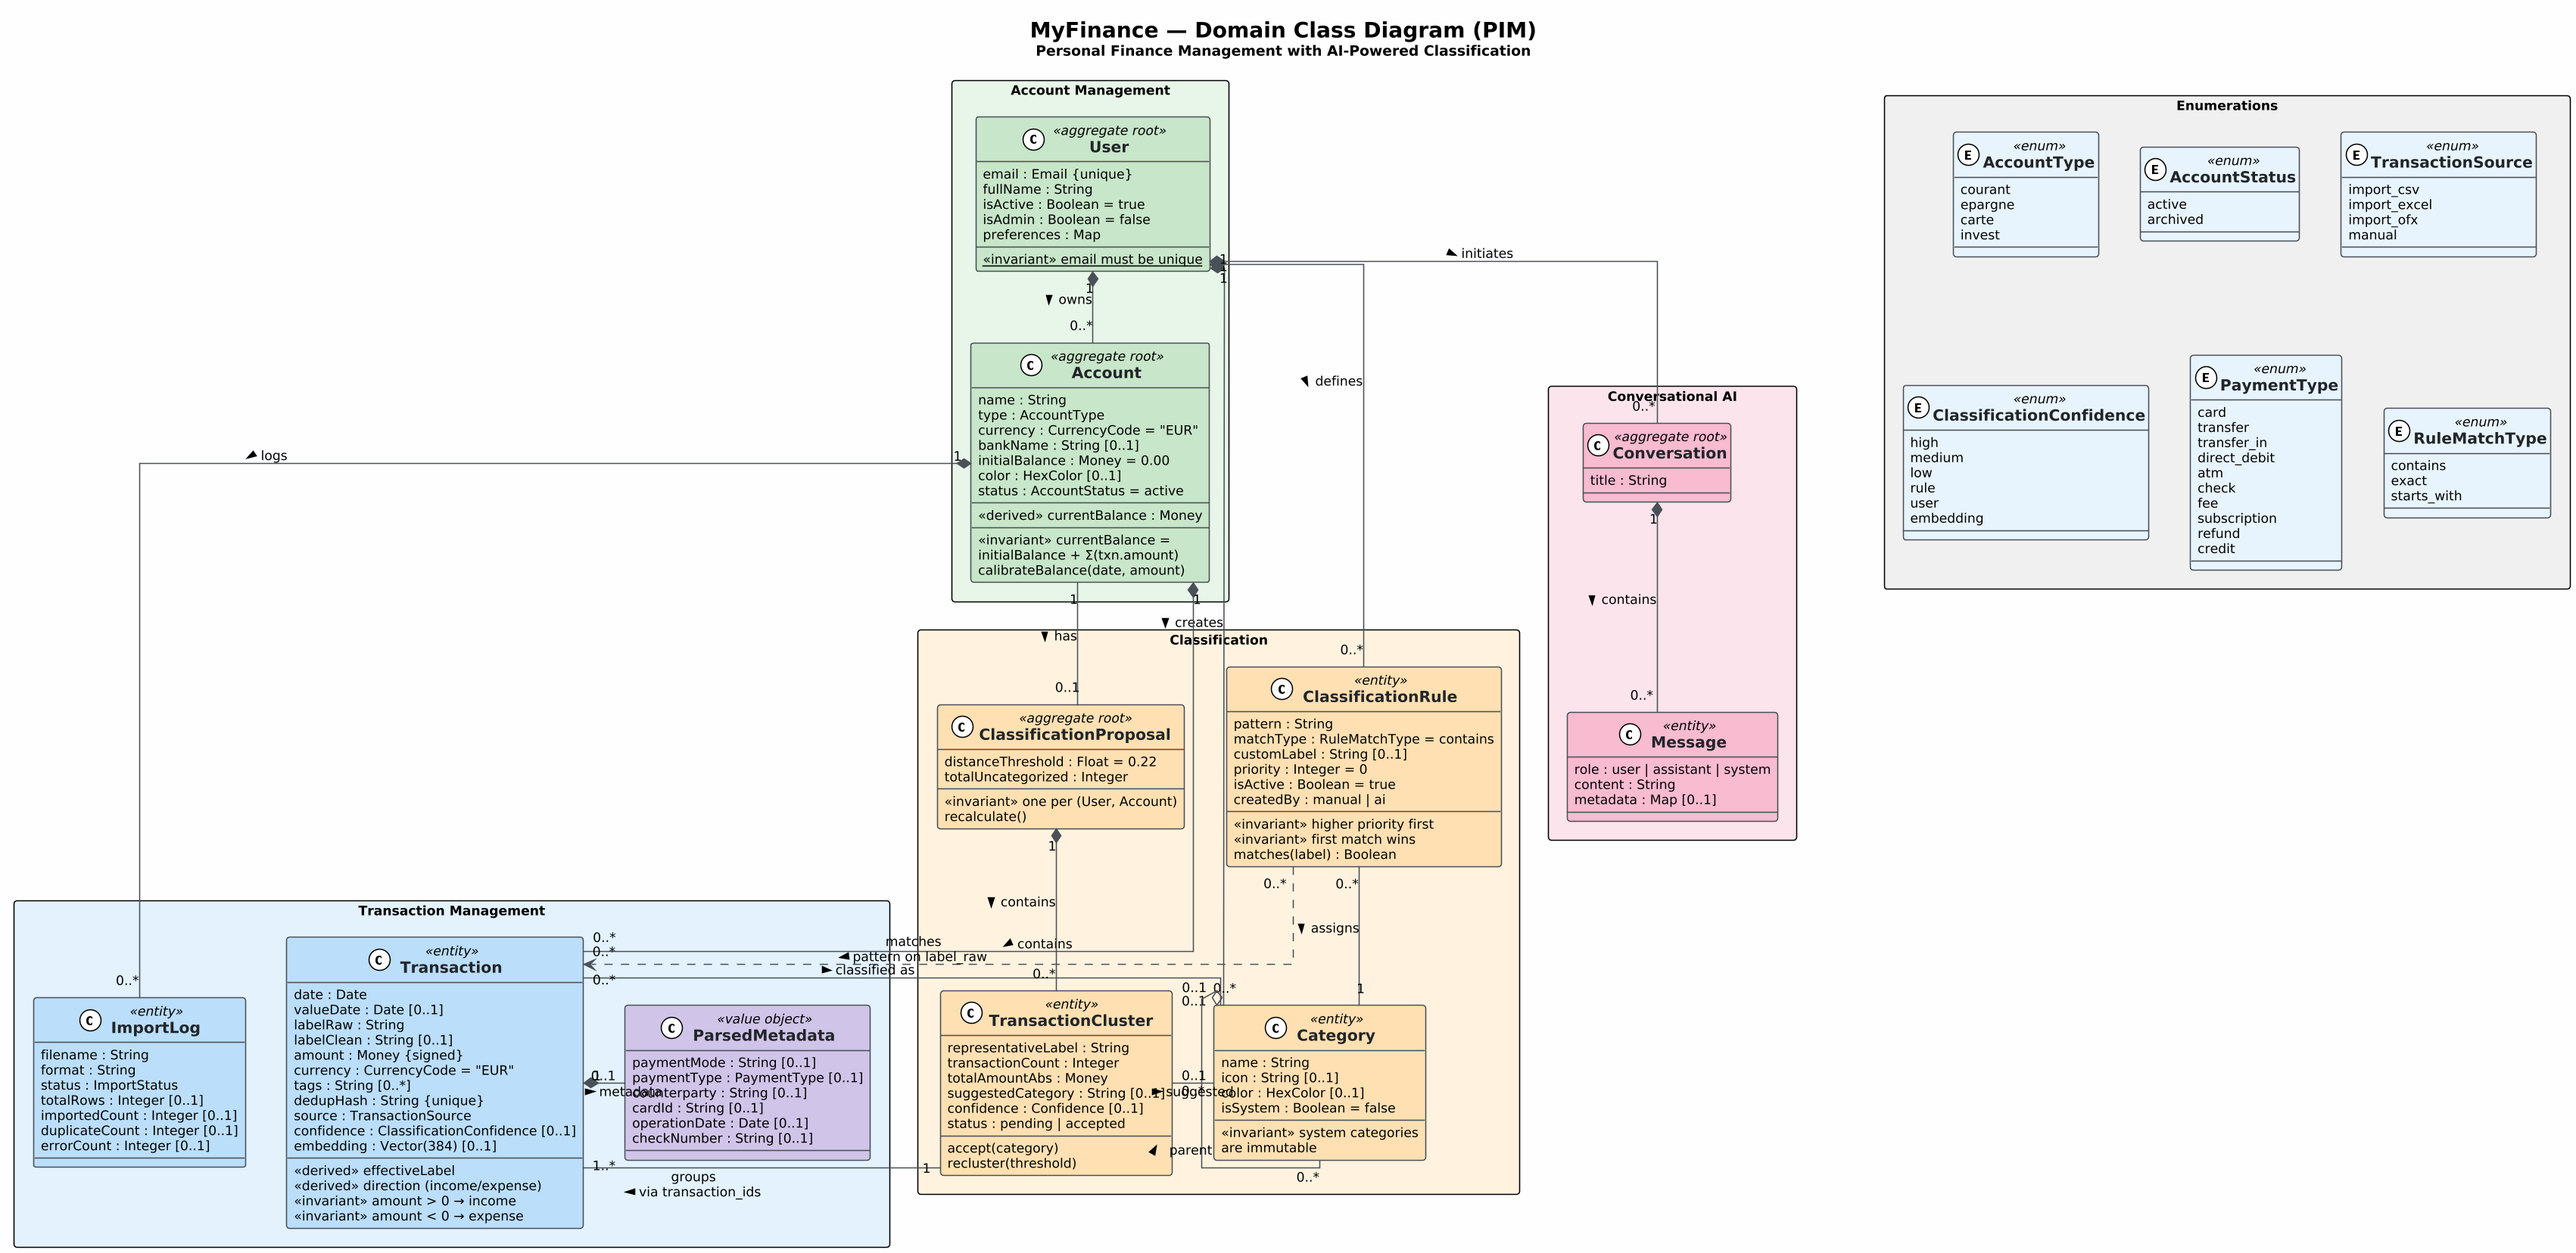
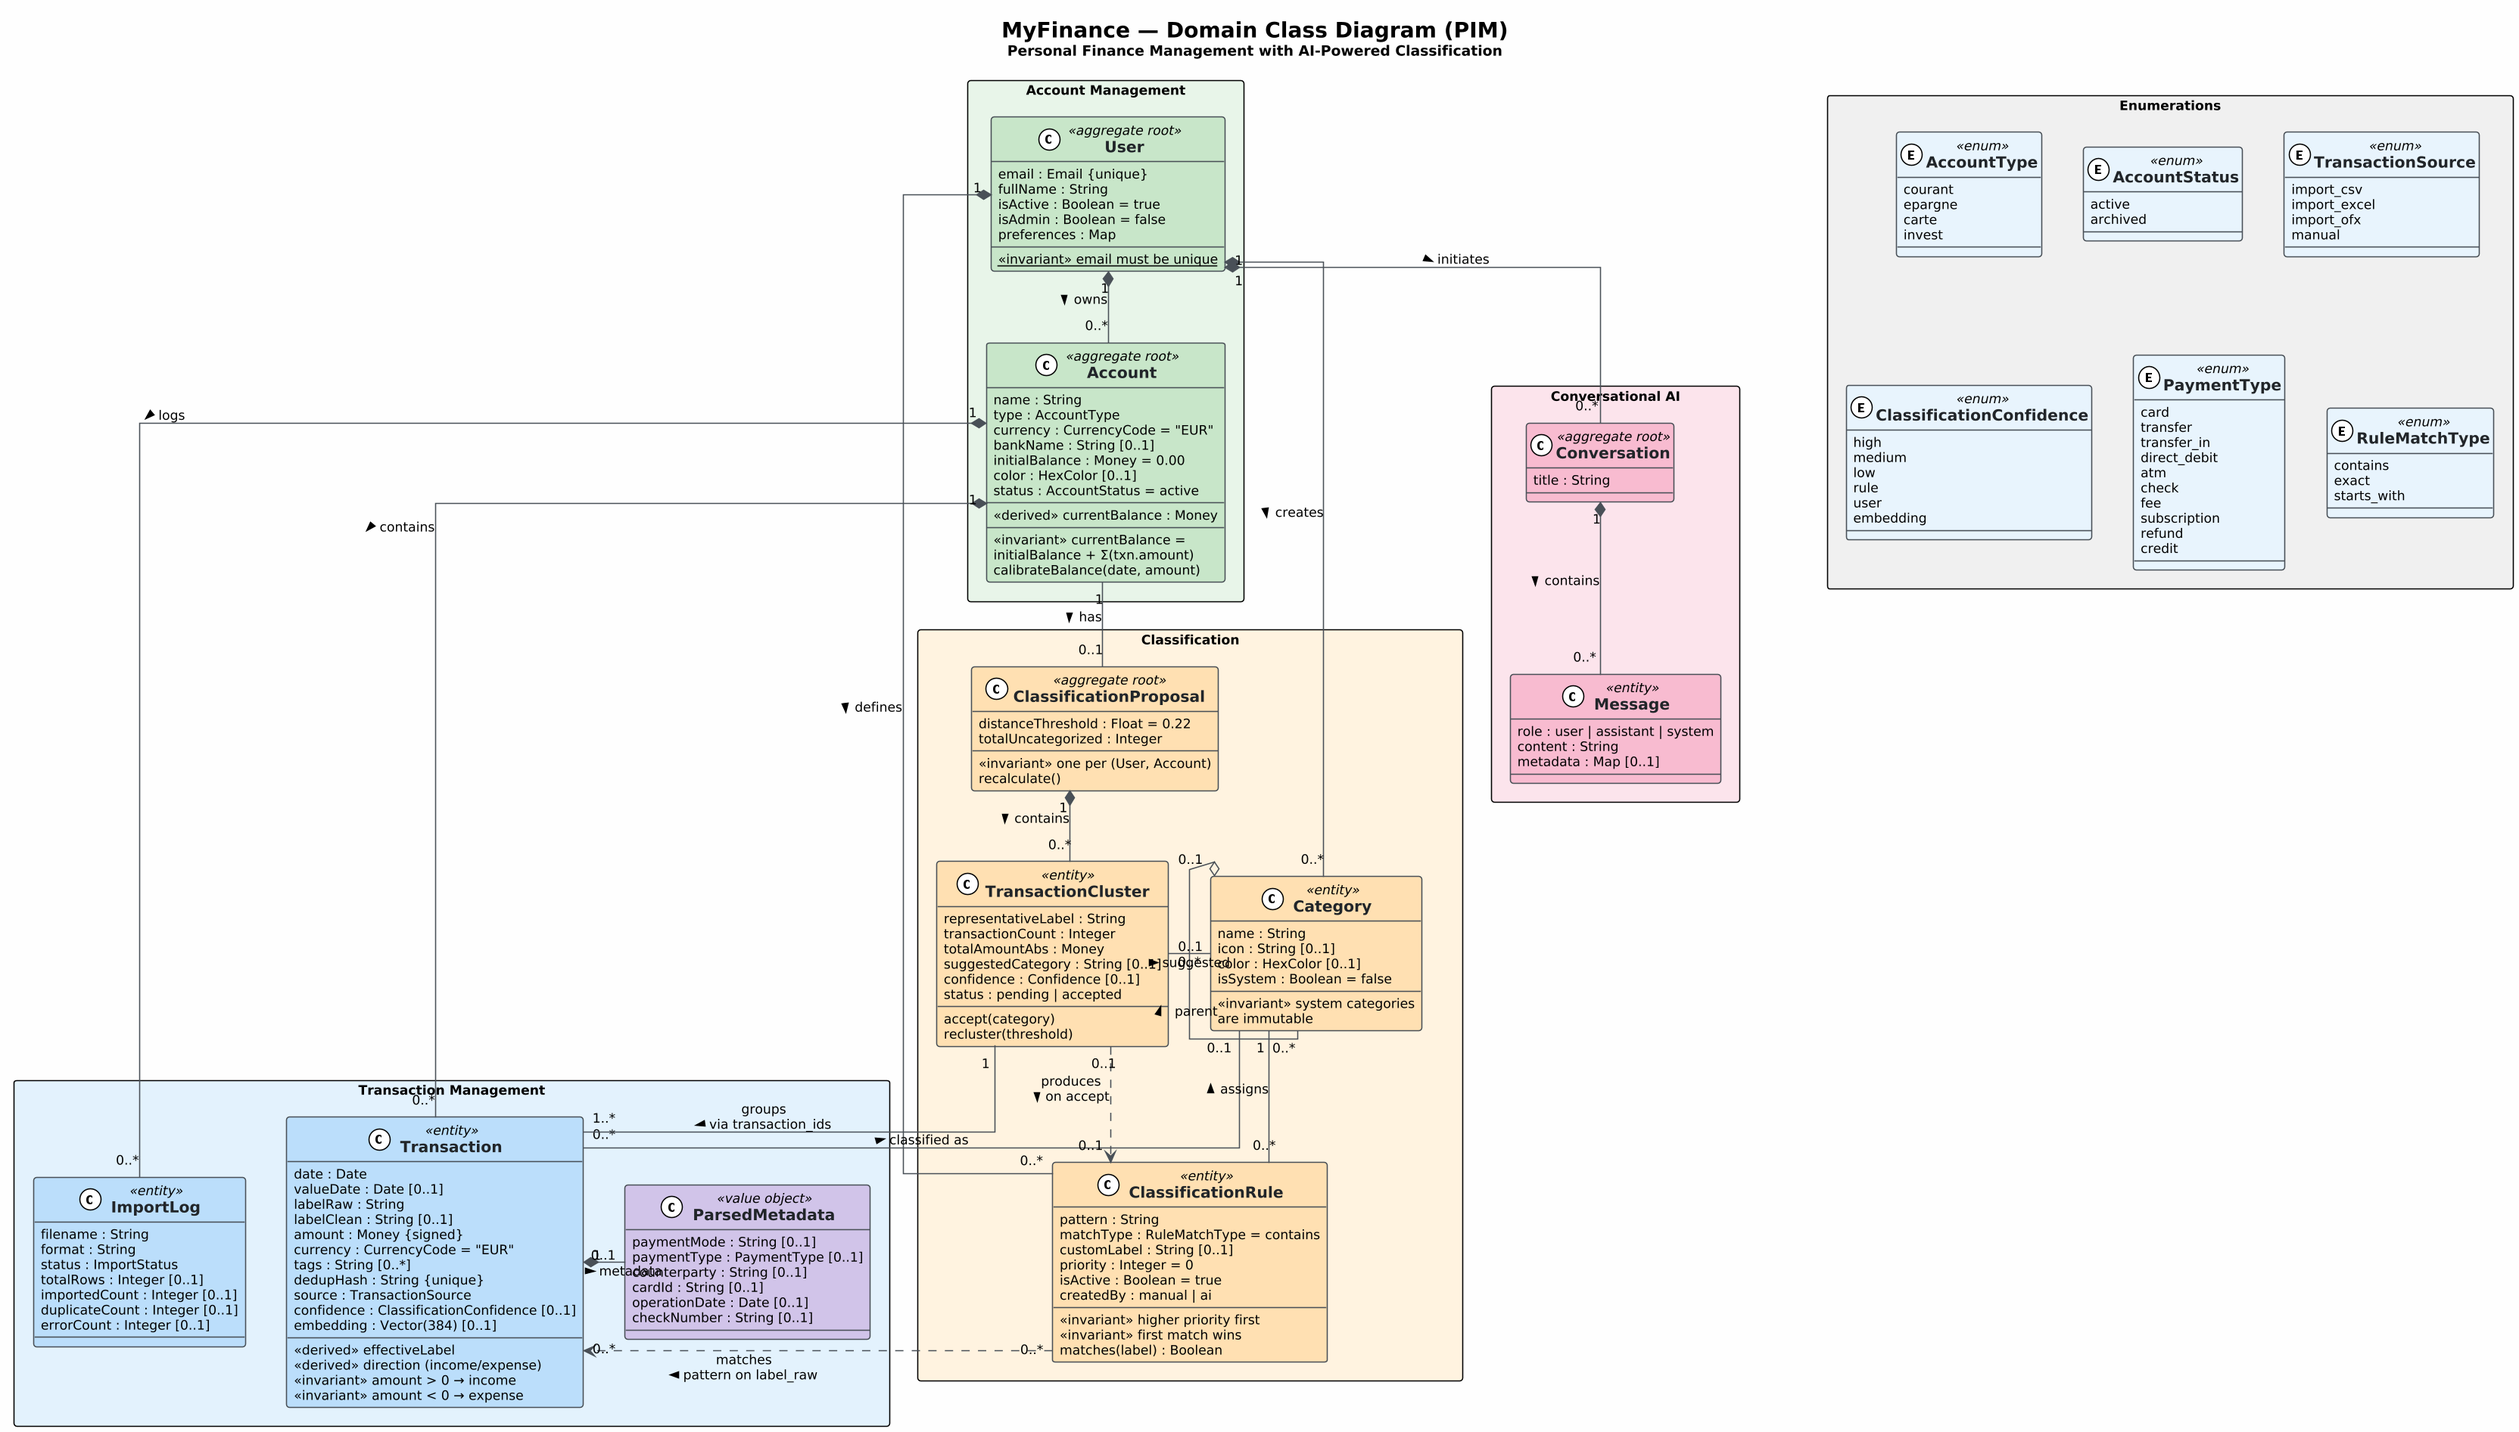
fix(pim): add TransactionCluster produces ClassificationRule relationship
When a user accepts a cluster, a ClassificationRule is optionally
created (create_rule=True). The rule pattern is derived from the
cluster's rule_pattern field (user override) or the first transaction's
label_raw. This is a unidirectional, event-driven relationship — the
rule has no back-reference to the cluster that produced it.

Added «produces» relationship (dashed) in:
- UML class diagram (PlantUML source + re-rendered PNG)
- RDF/OWL ontology (mf:producesRule object property)
- RDF knowledge graph (red dashed edge)

https://claude.ai/code/session_015YvuEb5j7JQW21CT7GAgDW

Changed region(s): [[0.0, 0.0, 1.0, 1.0], [0.7188, 0.0616, 1.0, 0.2156]]

diff --git a/docs/PIM_ONTOLOGY.md b/docs/PIM_ONTOLOGY.md
@@ -315,6 +315,7 @@ ClassificationRule "0..*" ..> "0..*" Transaction : «matches»\npattern on label
 
 ClassificationProposal "1" *-- "0..*" TransactionCluster : contains >
 TransactionCluster "1" -- "1..*" Transaction : «groups»\nvia transaction_ids >
+TransactionCluster "0..1" ..> "0..1" ClassificationRule : «produces»\non accept (create_rule) >
 TransactionCluster "0..*" -- "0..1" Category : suggested category >
 TransactionCluster "0..*" -- "0..1" Category : overridden category >
 
@@ -881,6 +882,13 @@ mf:matchesTransaction
     rdfs:comment "A classification rule matches transactions whose label_raw satisfies the pattern (contains, exact, or starts_with). This is a computed, behavioral relationship — no FK exists. When applied, the matched transaction receives the rule's category and ai_confidence='rule'."@en ;
     rdfs:domain mf:ClassificationRule ;
     rdfs:range mf:Transaction .
+
+mf:producesRule
+    a owl:ObjectProperty ;
+    rdfs:label "produces rule"@en ;
+    rdfs:comment "When a user accepts a transaction cluster (with create_rule=True), a ClassificationRule is created or updated. The rule's pattern is derived from the cluster's rule_pattern (user override) or the first transaction's label_raw. This is a unidirectional, event-driven relationship — the rule has no back-reference to the cluster that produced it."@en ;
+    rdfs:domain mf:TransactionCluster ;
+    rdfs:range mf:ClassificationRule .
 
 mf:suggestedCategory
     a owl:ObjectProperty ;
